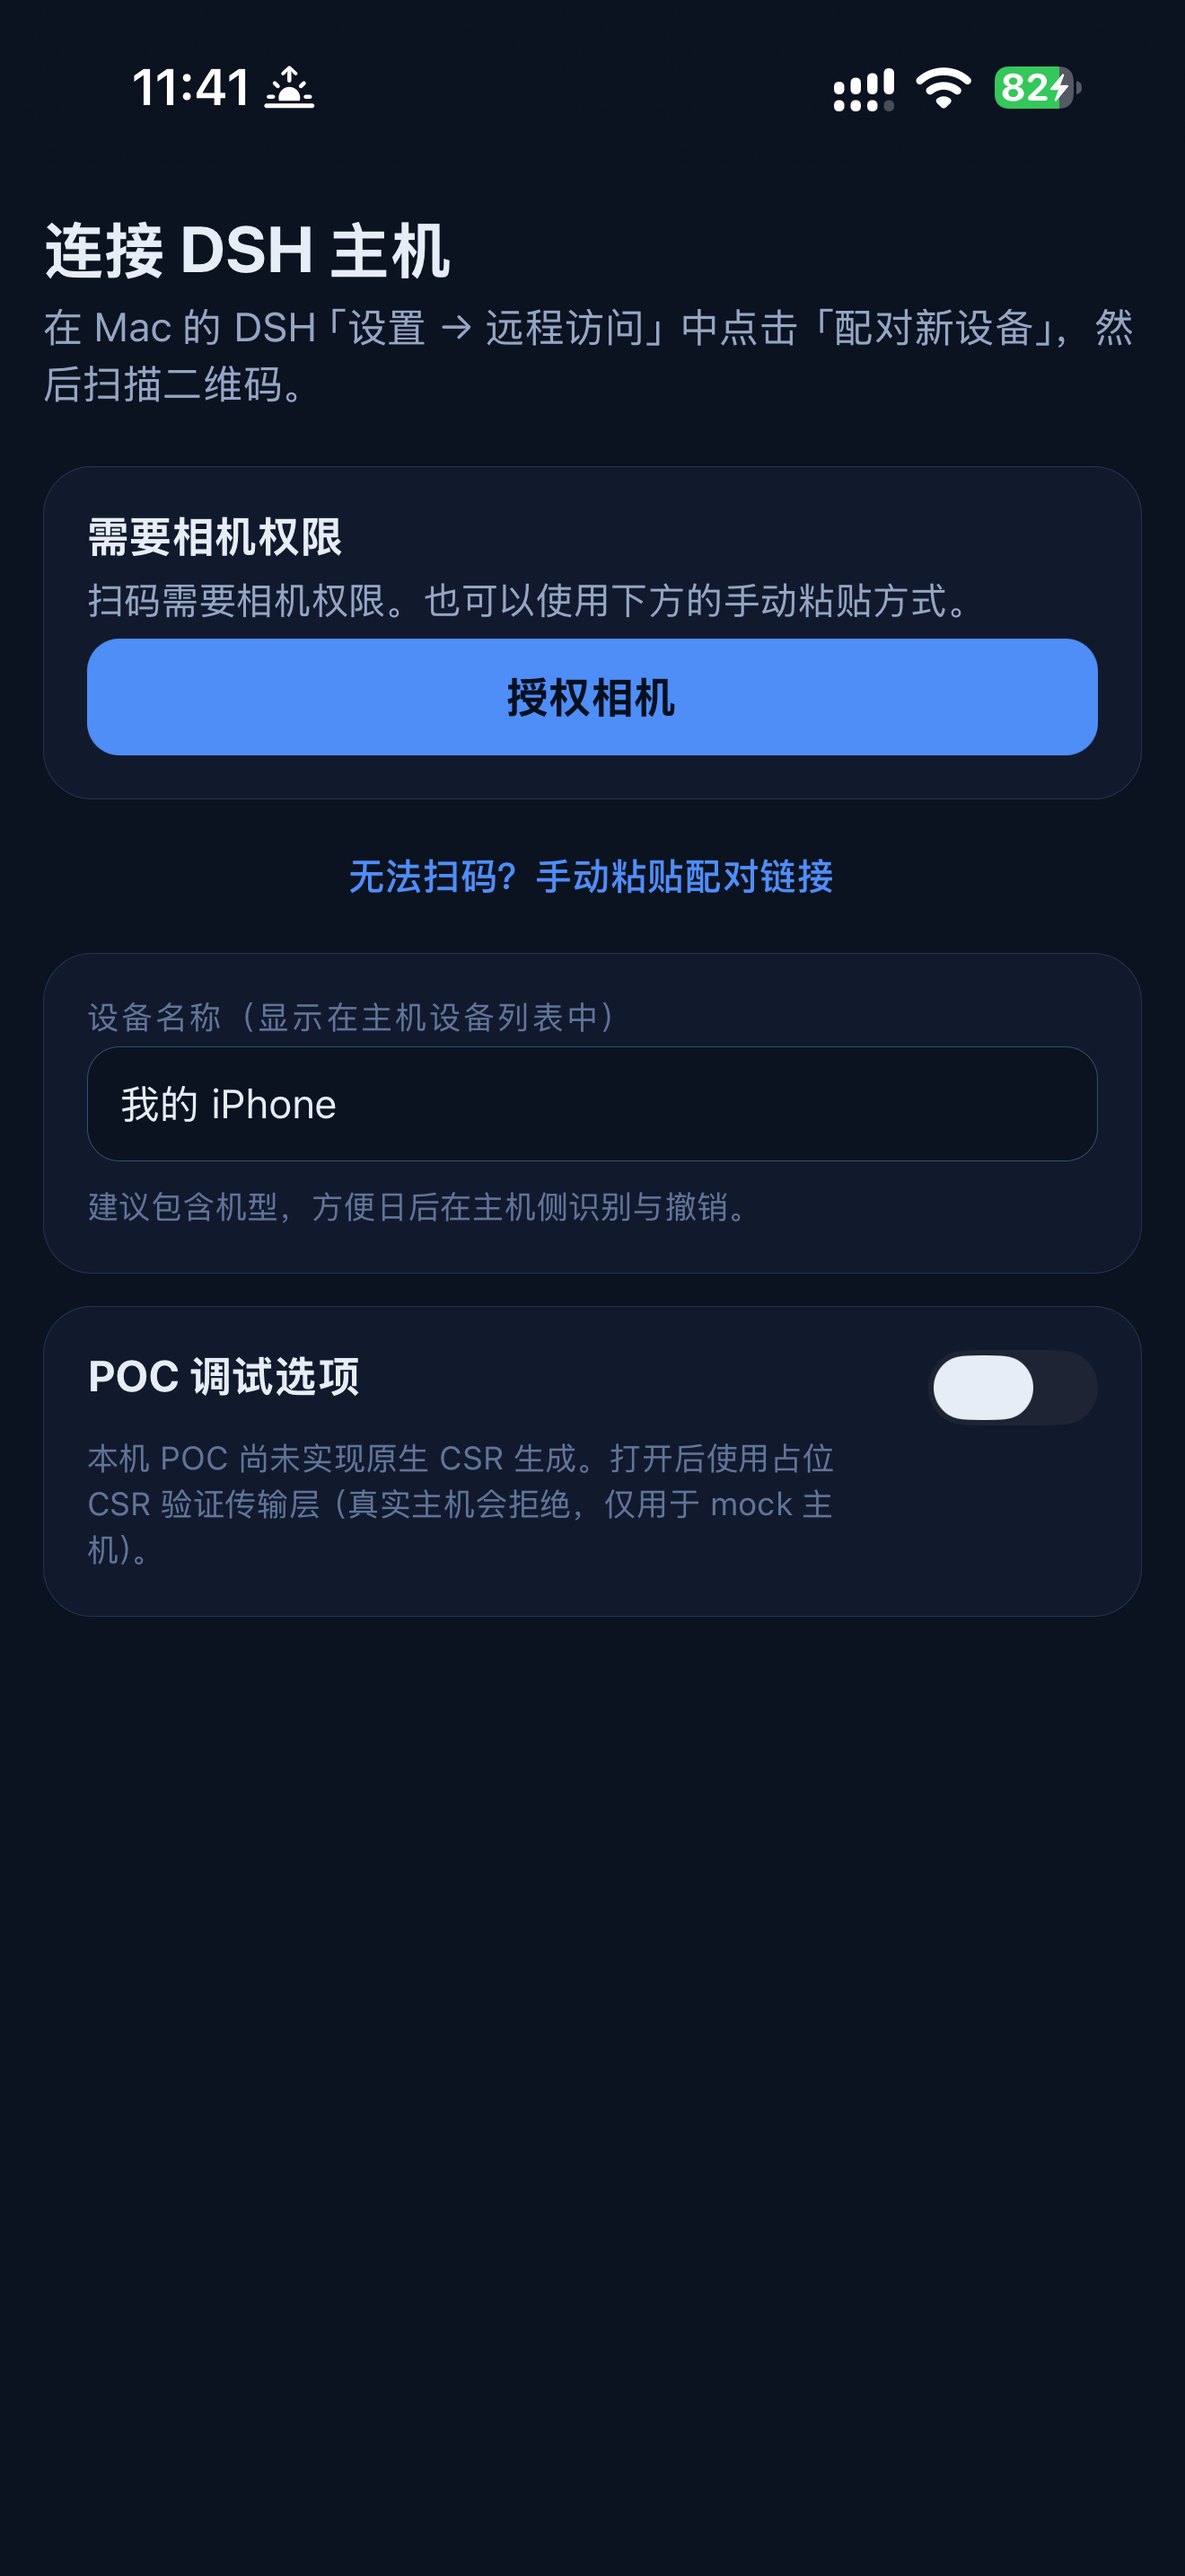
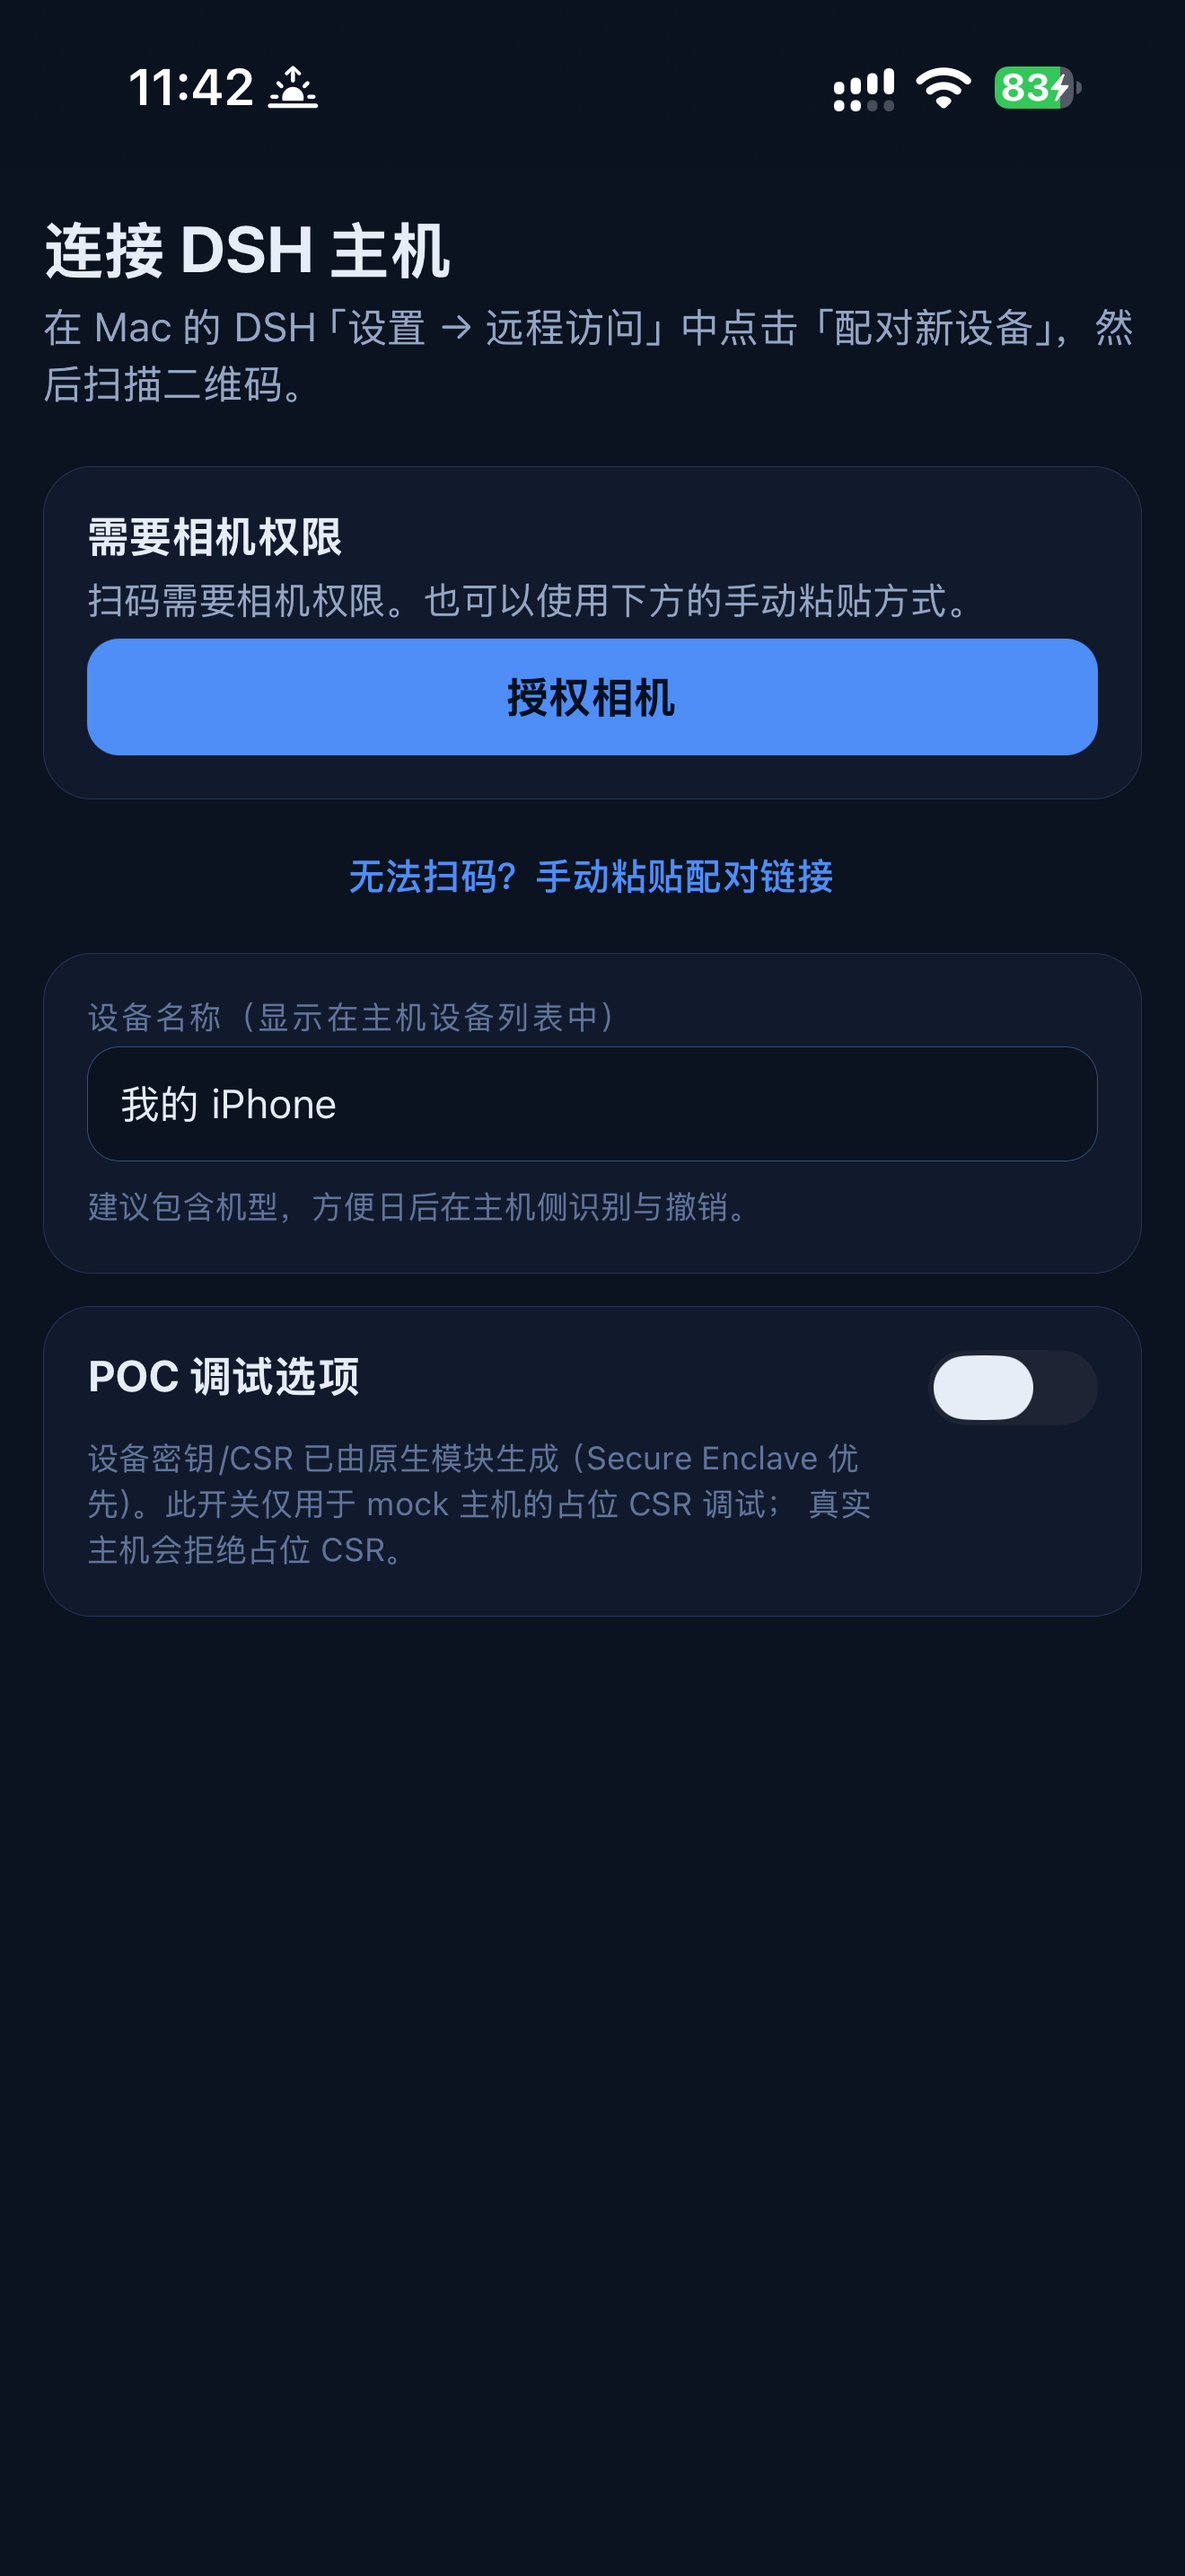
test(ios): real-device Secure Enclave P-256 CSR signed by host CA; capture evidence

Changed region(s): [[0.0621, 0.5586, 0.7455, 0.6206], [0.1242, 0.031, 0.2174, 0.0621]]

diff --git a/dsh-remoteApp/modules/dsh-mtls/ios/DSHMTLSCsr.swift b/dsh-remoteApp/modules/dsh-mtls/ios/DSHMTLSCsr.swift
@@ -16,6 +16,8 @@ import Security
 struct DSHMTLSCsrResult {
   let csrPem: String
   let keyLabel: String
+  /// true = P-256 私钥由 Secure Enclave 持有（不可导出）；false = 软件 Keychain 回退。
+  let secureEnclave: Bool
 }
 
 enum DSHMTLSCsrError: Error, LocalizedError {
@@ -82,6 +84,7 @@ enum DSHMTLSCsr {
     let secureEnclaveAttrs = baseAttrs.merging([kSecAttrTokenID as String: kSecAttrTokenIDSecureEnclave]) { $1 }
     var error: Unmanaged<CFError>?
     var privateKey = SecKeyCreateRandomKey(secureEnclaveAttrs as CFDictionary, &error)
+    let usedSecureEnclave = privateKey != nil
     if privateKey == nil {
       error = nil
       privateKey = SecKeyCreateRandomKey(baseAttrs as CFDictionary, &error)
@@ -120,6 +123,10 @@ enum DSHMTLSCsr {
       DSHMTLSDER.sequence([DSHMTLSDER.oid(oidEcdsaWithSha256)]),
       DSHMTLSDER.bitString(signature),
     ])
-    return DSHMTLSCsrResult(csrPem: DSHMTLSDER.pem(csr, label: "CERTIFICATE REQUEST"), keyLabel: keyLabel)
+    return DSHMTLSCsrResult(
+      csrPem: DSHMTLSDER.pem(csr, label: "CERTIFICATE REQUEST"),
+      keyLabel: keyLabel,
+      secureEnclave: usedSecureEnclave
+    )
   }
 }

diff --git a/dsh-remoteApp/modules/dsh-mtls/ios/DSHMTLSModule.swift b/dsh-remoteApp/modules/dsh-mtls/ios/DSHMTLSModule.swift
@@ -52,7 +52,7 @@ public final class DSHMTLSModule: Module {
     AsyncFunction("generateCsr") { (commonName: String) -> [String: Any] in
       let label = "com.dsh.remote.device.\(UUID().uuidString)"
       let result = try DSHMTLSCsr.generate(commonName: commonName, keyLabel: label)
-      return ["csrPem": result.csrPem, "label": result.keyLabel]
+      return ["csrPem": result.csrPem, "label": result.keyLabel, "secureEnclave": result.secureEnclave]
     }
 
     AsyncFunction("installCertificate") { (certPem: String, label: String?) -> [String: Any?] in

diff --git a/dsh-remoteApp/modules/dsh-mtls/src/index.ts b/dsh-remoteApp/modules/dsh-mtls/src/index.ts
@@ -56,6 +56,8 @@ export interface CsrResult {
   csrPem: string;
   /** Keychain/Keystore label of the newly generated private key. */
   label: string;
+  /** iOS: true = 私钥由 Secure Enclave 持有；false = 软件 Keychain 回退。 */
+  secureEnclave?: boolean;
 }
 
 export interface P12ImportResult {

diff --git a/STATUS.md b/STATUS.md
@@ -85,22 +85,25 @@ dsh-remoteApp/                        # Expo App + 原生模块 + docs/ACCEPTANC
 - ✅ iOS 原生工程（`dsh-remoteApp/ios/`）已生成，bundle ID = `com.amesucre.dshremote`
 - ✅ **无签名 generic iOS 编译已通过**（`xcodebuild ... BUILD SUCCEEDED`，含本地 Swift mTLS 模块）
 - ✅ 开发证书 + `DshRemote.mobileprovision`（含 `aps-environment=development`）已安装到本机
-- ⏳ 已配对 iPhone「iPhone」当前处于锁定状态，`xcodebuild` 提示需要解锁才能启用开发服务
+- ✅ 已手动签名构建并安装到 iPhone「iPhone」，App 启动、JS bundle 加载成功
+- ✅ 真机 Secure Enclave 自检：原生模块生成 P-256 key（`SE=true`）→ CSR → host CA 签发 → openssl 证书链/公钥校验通过
+- ⏳ 仍待完成：相机授权、扫码配对、真机 WebView mTLS、推送、App 锁（需 host/APNs 就绪）
 
 剩余步骤：
 
+已完成真机安装（手动签名）：
+
 ```bash
-# 1) 解锁 iPhone 并保持亮屏，USB 连接/信任此电脑
-# 2) 确认设备可用
-xcrun devicectl list devices
-# 3) 构建并安装（签名）
 cd dsh-remoteApp/ios
 xcodebuild -workspace DSHRemote.xcworkspace -scheme DSHRemote -configuration Debug \
-  -destination 'id=<IPHONE_UDID>' \
-  -derivedDataPath /tmp/dsh-ios-device \
-  DEVELOPMENT_TEAM=<TEAM_ID> CODE_SIGN_STYLE=Automatic -allowProvisioningUpdates build
-# 4) 或直接用 Expo：npx expo run:ios --device
+  -destination 'id=<IPHONE_UDID>' -derivedDataPath /tmp/dsh-ios-device \
+  CODE_SIGN_STYLE=Manual DEVELOPMENT_TEAM=<TEAM_ID> \
+  PROVISIONING_PROFILE_SPECIFIER=<PROFILE_UUID> \
+  CODE_SIGN_IDENTITY="Apple Development: <YOUR_NAME> (<CERT_ID>)" build
+xcrun devicectl device install app --device <UDID> /tmp/dsh-ios-device/Build/Products/Debug-iphoneos/DSHRemote.app
 ```
+
+剩余验收需要 host 配对二维码（相机/手动粘贴）与推送凭据；见 `docs/ACCEPTANCE.md`。
 按 [`dsh-remoteApp/docs/ACCEPTANCE.md`](dsh-remoteApp/docs/ACCEPTANCE.md) 执行并记录：
 配对/桌面确认、WebView mTLS、Secure Enclave 身份、推送、App 锁、撤销断链、证书轮换。
 

diff --git a/dsh-remoteService/docs/POC-REPORT.md b/dsh-remoteService/docs/POC-REPORT.md
@@ -10,6 +10,7 @@
 | # | POC | 状态 | 证据 |
 |---|---|---|---|
 | 1 | WebView mTLS | ✅ **macOS WKWebView 已验证**（`npm run poc:webview`：真实 WKWebView 出示客户端证书，服务器确认 `CN=dsh-poc-device`）；⏳ iOS 真机待 Xcode | `poc/webview-mtls/`（Swift 测试工具 + 测试 CA/HTTPS server）；与 iOS 同一套 `WKNavigationDelegate.didReceive challenge` API |
+| 1.26 | iPhone Secure Enclave 设备身份 | ✅ 真机 App 原生模块生成 P-256 密钥（`SE=true`），PKCS#10 CSR 经 host 插件真实设备 CA 签发：openssl 校验证书链通过、CSR/证书公钥 SHA-256 一致；截图见 `mockups/ios-pairing.png` | iPhone 真机 + `/tmp/metro.log`（自检日志）、`/tmp/iphone-se-cert.pem` |
 | 1.25 | iOS 真机安装/启动 | ✅ 手动签名构建成功（`Apple Development` + `DshRemote.mobileprovision`，bundle `com.amesucre.dshremote`），`devicectl` 安装到 iPhone 并启动；JS bundle 从 Metro 加载，真机显示配对首页（截图 `mockups/ios-pairing.png`） | `xcodebuild` + `devicectl`、`/tmp/ios-device-build3.log` |
 | 1.24 | iOS 原生编译 | ✅ Xcode 27.1 + CocoaPods 1.17：`xcodebuild` **generic iOS BUILD SUCCEEDED**（含本地 Swift mTLS/CSR/WebView 模块，无签名）；修复了 Secure Enclave 证书安装（iOS 无 `SecIdentityCreateWithCertificate`）、证书到 DER notAfter 解析、WKUserContentController 脚本移除三处编译错误。⏳ 真机安装被 iPhone 锁定阻塞 | `dsh-remoteApp/modules/dsh-mtls/ios/`、`/tmp/ios-build3.log` |
 | 1.23 | App 安全审计视图 | ✅ host `GET /__dsh_remote/audit`（mTLS，limit 1–200）→ App 设备页展示最近 10 条；host 测试覆盖 200 与无证书 403 | `packages/host-plugin/lib/server.js`、`dsh-remoteApp/src/lib/devices.ts`、`DevicesScreen` |
